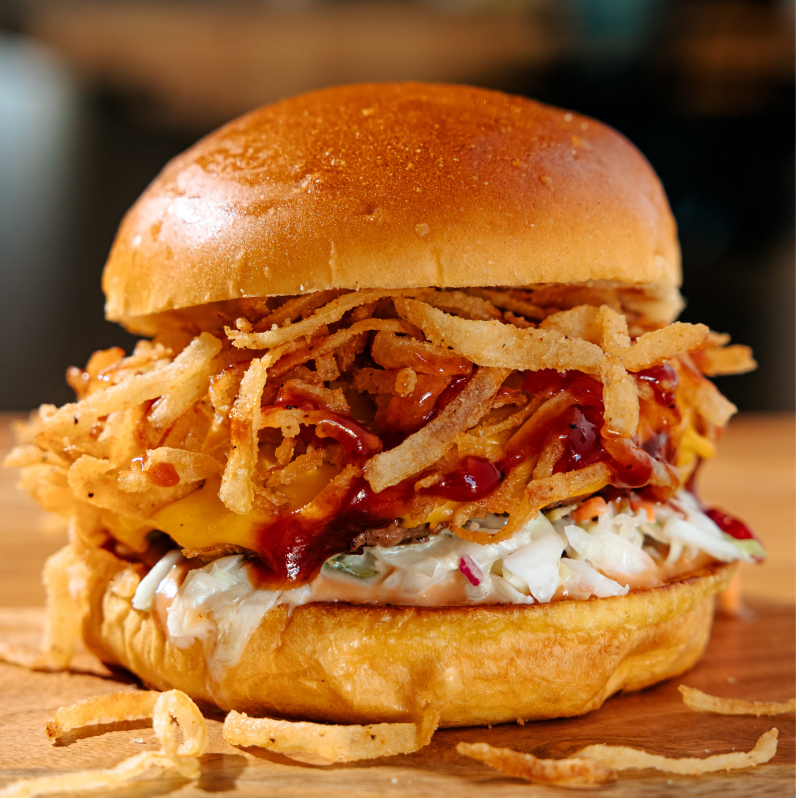
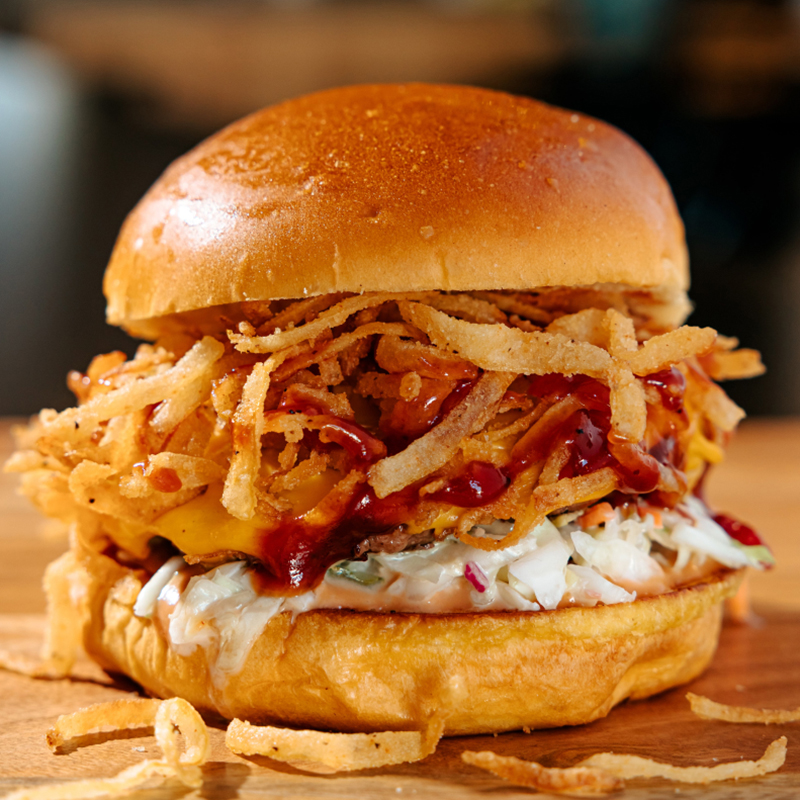
update images

diff --git a/src/views/front/HomeView.vue b/src/views/front/HomeView.vue
@@ -16,7 +16,7 @@
 					<div class="d-flex">
 						<div class="product-img">
 							<img
-								src="https://i.imgur.com/bryLmvk.jpg"
+								src="https://raw.githubusercontent.com/Cathy7485/Burger/main/src/assets/images/%E7%81%AB%E7%84%B0%E9%A6%99%E8%84%86%E7%82%B8%E9%9B%9E%E5%A0%A1.jpg"
 								alt=""
 							/>
 						</div>
@@ -32,7 +32,7 @@
 					<div class="d-flex align-items-center">
 						<div class="product-img">
 							<img
-								src="https://images.unsplash.com/photo-1580372647279-e3af83eacec5?ixlib=rb-4.0.3&ixid=MnwxMjA3fDB8MHxwaG90by1wYWdlfHx8fGVufDB8fHx8&auto=format&fit=crop&w=800&q=80"
+								src="https://raw.githubusercontent.com/Cathy7485/Burger/main/src/assets/images/%E8%B5%B7%E5%8F%B8%E7%80%91%E5%B8%83%E6%96%B0%E8%B1%AC%E8%82%89%E7%B4%A0%E5%A0%A1.jpg"
 								alt=""
 							/>
 						</div>
